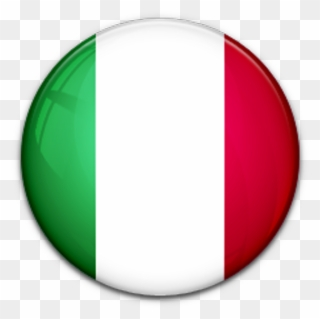
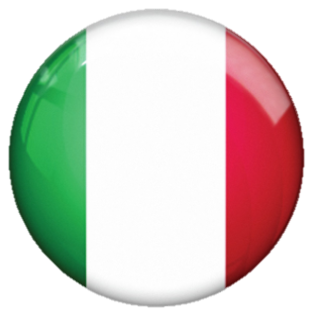
Deploy app

diff --git a/src/components/Flag.jsx b/src/components/Flag.jsx
@@ -1,0 +1,71 @@
+import React, { useState } from "react";
+import ukflag from "../images/uk_flag.png";
+import itflag from "../images/italian_flag.png";
+
+function Flag() {
+  const [language, setLanguage] = useState("UK");
+  const [opacityUK, setOpacityUK] = useState(1);
+  const [opacityIT, setOpacityIT] = useState(0.5);
+
+  function handleClickUK() {
+    setLanguage("UK");
+    setOpacityUK(1);
+    setOpacityIT(0.5);
+  }
+
+  function handleClickIT() {
+    setLanguage("IT");
+    setOpacityIT(1);
+    setOpacityUK(0.5);
+  }
+
+  function handleMouseOverUK() {
+    setOpacityUK(1);
+    setOpacityIT(0.5);
+  }
+
+  function handleMouseOutUK() {
+    if (language === "IT") {
+      setOpacityUK(0.5);
+      setOpacityIT(1);
+    }
+  }
+
+  function handleMouseOverIT() {
+    setOpacityIT(1);
+    setOpacityUK(0.5);
+  }
+
+  function handleMouseOutIT() {
+    if (language === "UK") {
+      setOpacityIT(0.5);
+      setOpacityUK(1);
+    }
+  }
+
+  return (
+    <div>
+      <img
+        className="navbar-symbol uk-flag"
+        src={ukflag}
+        alt="UK-flag"
+        style={{ opacity: opacityUK }}
+        onClick={handleClickUK}
+        onMouseOver={handleMouseOverUK}
+        onMouseOut={handleMouseOutUK}
+      />
+      <img
+        className="navbar-symbol it-flag"
+        src={itflag}
+        alt="Italian-flag"
+        style={{ opacity: opacityIT }}
+        onClick={handleClickIT}
+        onMouseOver={handleMouseOverIT}
+        onMouseOut={handleMouseOutIT}
+      />
+      <div id="language">{language}</div>
+    </div>
+  );
+}
+
+export default Flag;

diff --git a/src/components/Footer.jsx b/src/components/Footer.jsx
@@ -4,15 +4,26 @@ function Footer() {
   const year = new Date().getFullYear();
   return (
     <footer>
-    <div>
-    <a href="mailto:diego.bettega.90@gmail.com" class="link-decoration"><i class="fa fa-envelope footer-symbol"></i></a>
-    &nbsp; &nbsp;
-    <a href="https://www.linkedin.com/in/diego-bettega-59a649b7/" class="link-decoration"><i class="fa fa-linkedin footer-symbol"></i></a>
-    &nbsp; &nbsp;
-    <a href="https://github.com/diegobettega?tab=repositories" class="link-decoration"><i class="fa fa-github footer-symbol"></i></a>
-    <br /><br />
+      <a href="mailto:diego.bettega.90@gmail.com" class="link-decoration">
+        <i class="fa fa-envelope footer-symbol"></i>
+      </a>
+      &nbsp; &nbsp;
+      <a
+        href="https://www.linkedin.com/in/diego-bettega-59a649b7/"
+        class="link-decoration"
+      >
+        <i class="fa fa-linkedin footer-symbol"></i>
+      </a>
+      &nbsp; &nbsp;
+      <a
+        href="https://github.com/diegobettega?tab=repositories"
+        class="link-decoration"
+      >
+        <i class="fa fa-github footer-symbol"></i>
+      </a>
+      <br />
+      <br />
       <p>ⓒ Copyright {year} Diego Bettega</p>
-      </div>
     </footer>
   );
 }

diff --git a/src/App.css b/src/App.css
@@ -53,8 +53,14 @@ body {
   background-color: #1b262c;
 }
 .navbar-symbol {
-  width: 3rem;
+  width: 2rem;
   height: auto;
+}
+.uk-flag{
+  opacity: 0.5;
+}
+.it-flag{
+  opacity: 1;
 }
 .navbar-brand {
   font-size: 2rem;
@@ -65,10 +71,14 @@ body {
   padding: 0 10px;
 }
 .navbar-dark .navbar-nav .nav-link {
-  opacity: 0.6;
+  opacity: 1;
 }
 .nav-link {
   font-size: 1.2rem;
+}
+#language {
+  color:red;
+  /* display: none; */
 }
 
 

diff --git a/src/components/Navbar.jsx b/src/components/Navbar.jsx
@@ -1,10 +1,11 @@
 import React from "react";
-import profile from "../images/profile.png";
+import Flag from "./Flag";
 
 function Navbar() {
+
   return (
     <nav class="navbar fixed-top navbar-expand-lg navbar-dark">
-      <img class="navbar-symbol" src={profile} alt="profile-pic" />
+    <Flag />
       <div class="navbar-brand">Diego Bettega</div>
       <button
         class="navbar-toggler"
